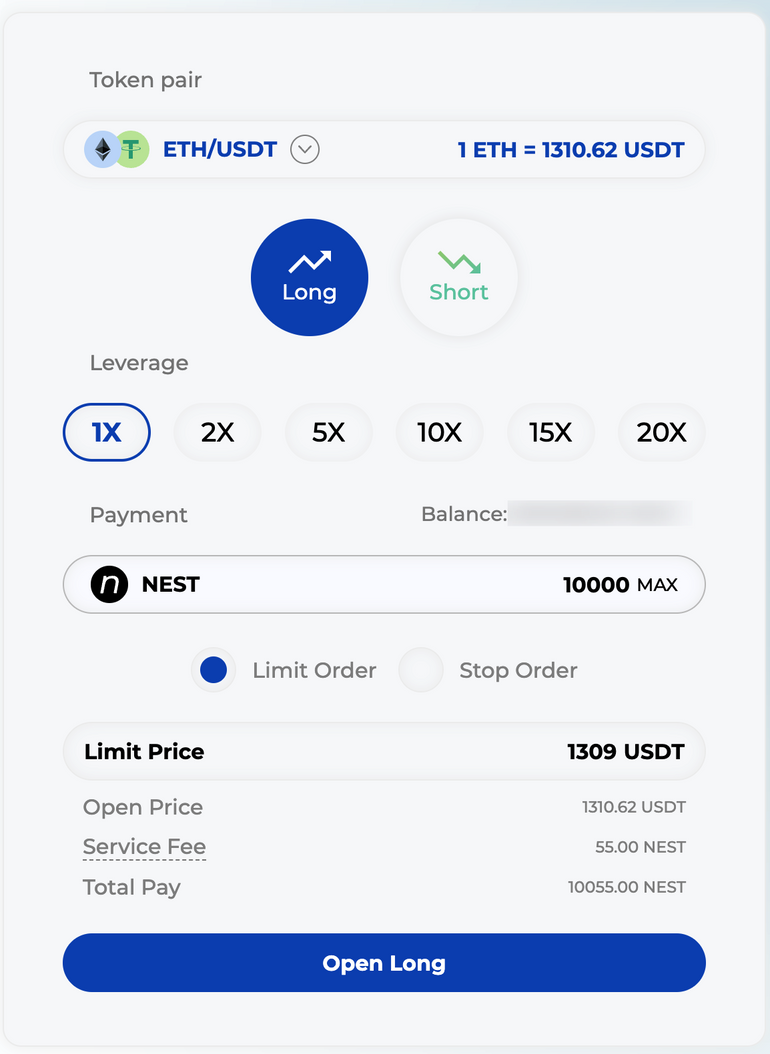
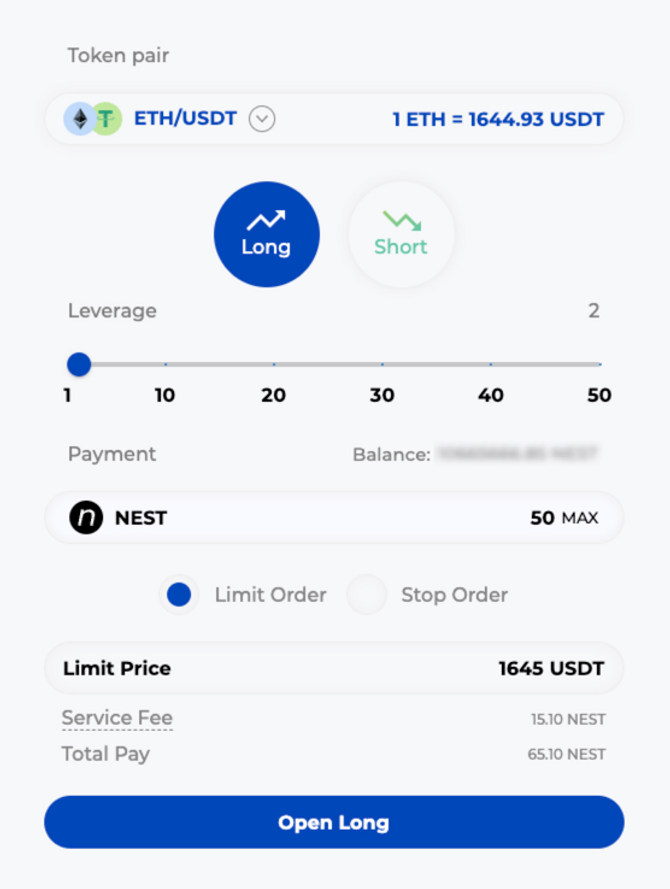
update

diff --git a/README.md b/README.md
@@ -2,13 +2,13 @@
 
 ## Concept
 
-### NEST Probability Virtual Machine
+### What is NEST Protocol?
 
-NEST Probability Virtual Machine (PVM) is a virtual machine-like structure based on the basic function library. Developers can develop various exciting applications based on the function library, similar to Ethereum virtual machine (EVM) programming.
+The NEST Protocol is a decentralized trading infrastructure known as the martingale network. NEST uses smart contracts to eliminate market markers and LPs while providing traders with nearly infinite liquidity through risk sharing.
 
-NEST inherited the genes of Ethereum. The essence of EVM is that each program is a combination of some basic codes, which can be called as long as a certain gas fee is paid. The income of each product on the PVM can be regarded as a linear combination of some basic income functions, and this income can be obtained as long as a certain cost (that is, the discounted value of this income) is paid. The underlying logic of PVM is the same as that of EVM, which means that all EVM development can be implemented on PVM.
+NEST Protocol includes three modules: NEST Oracle, NEST Assets, and NESTcraft. NEST Oracle provides decentralized on-chain prices. NEST Assets are generated and burned by NEST smart contract, and provide currency units for martingale transactions on NEST. NESTcraft converts various on-chain random sources into a super martingale function library and provides a variety of customizable martingale trading options.
 
-Check the PVM's [whitepaper](https://finance.nestprotocol.org/The_White_Paper_of_NEST_PVM.pdf) for more details.
+The NEST protocol can be used for a variety of purposes, including decentralized contract exchanges, financial derivatives supermarkets, on-chain and off-chain risk hedging, the economic framework of Metaverse and GameFi, lottery, prop synthesis, and a few others.
 
 ## How to Play
 
@@ -30,157 +30,138 @@ You can switch to "Swap" tab to exchange between USDT and NEST token. The exchan
 
 ### Futures
 
-You can use NEST to buy ETH/USDT and BTC/USDT futures here, up to 20x leverage.
-
-We offer you 1X, 2X, 5X, 10X, 15X 20X leverage. The following steps show you how to buy futures on NEST Fi.
+You can use $NEST to buy ETH/USDT and BTC/USDT futures here, with up to 50X leverage. We offer you 1-50 times leverage. The following steps show you how to buy futures on NEST Fi.
 
 #### Connect your wallet
 
-You can connect your wallet through the "Connect Wallet" button on the page:
+Connect your wallet through the "Connect Wallet" button on the page:
 ![image7](https://raw.githubusercontent.com/NEST-Protocol/NEST-Fi-User-Guide/main/Image/NFUG7.png)
 
 #### Token
 
 You need to have NEST tokens in your account to start trading.
 
-It can be exchanged directly on swap: [https://finance.nestprotocol.org/#/swap](https://finance.nestprotocol.org/#/swap)
+You can exchange directly through Swap: [https://finance.nestprotocol.org/#/swap](https://finance.nestprotocol.org/#/swap)
 
 #### Open a position
 
-Select the token you want to open a position, and check the current market price through NEST oracle, which is a completely decentralized oracle. The opening price will be slightly different from the price provided by the NEST oracle price based on risk compensation.
+Select the token pair you want to open a position and check the current market price through NEST Oracle, an utterly decentralized oracle. The opening price will be slightly different from the price provided by NEST Oracle based on risk compensation. Steps are as follows:
 
-1. Choose "Long" or "Short", and the leverage you want to use.
-2. Then, select the times of leverage
-3. Input the amount of NEST as collateral for this future, minimum 50 NEST.
+1. Choose "Long" or "Short" according to your expectation on which side you want to build your position.
+2. Then, select the times of leverage.
+3. Enter the amount to buy futures, and the minimum purchase is 50 $NEST.
 
 ![image8](https://raw.githubusercontent.com/NEST-Protocol/NEST-Fi-User-Guide/main/Image/NFUG8.png)
 
-4. The first time you need to approve it successfully before opening the position. NESTFi options use 0 slippage to open positions. And opening a position charges 0.2% of the position cost.
-
-While there is no price impact on the transaction, price movements between the time the transaction is submitted and its confirmation on the blockchain can cause slippage.
+4. You need to approve it successfully before opening the position for the first time.
+5. Service fee for opening positions: 0.1% of the position.
 
 #### Position management
 
-After successfully opening a position, the details of your position will be displayed at the bottom of the page. You can close your future positions at any time.
+After successfully opening a position, the information of your position will be displayed at the bottom. You can close your future positions at any time.
 
 ![image12](https://raw.githubusercontent.com/NEST-Protocol/NEST-Fi-User-Guide/main/Image/NFUG12.png)
 
-You can manage your liquidation price by clicking "Add" to add to the position. A service fee of 0.2% is charged based on the cost of your added position.
+You can manage your liquidation price by clicking "Add" to add margin. There is no service fee for margin calls.
 
 ![image13](https://raw.githubusercontent.com/NEST-Protocol/NEST-Fi-User-Guide/main/Image/NFUG13.png)
 
 #### Close a position
 
-You can close all your positions by clicking “Close” button. Once you choose to close, we will charge a 0.2% service fee from you.
+1. You can close all your positions by clicking the “Close” button.
+2. Service fee for closing: 0.1% of the position.
 
 ![image14](https://raw.githubusercontent.com/NEST-Protocol/NEST-Fi-User-Guide/main/Image/NFUG14.png)
 
 #### Limit order
 
-You can open the ‘limit order’ to set a specific opening price. This operation will charge a 0.2% service fee and a 15 NEST execution fee.
+You can click the ‘Limit order’ to set a specific opening price. Service fee for Limit order: 0.1% of the position+15 NEST(execution fee).
 
 1. Click “Limit order”.
-2. Then add your opening price to the corresponding “Limit Price”
+2. In the expanded menu, Limit Price, adds the price for opening a position.
 3. Once you create this order, we will charge you the principal, service fee, and execution fee in advance.
 4. You can manage your limit orders in the “Order” section.
-5. Once ‘Open Price’ reached the price you set, the protocol will automatically open the position for you.
+5. Once reaches the price you set, the protocol will automatically open the position for you.
 
 ![image15](https://raw.githubusercontent.com/NEST-Protocol/NEST-Fi-User-Guide/main/Image/NFUG15.png)
 
-Please note that the following situations may occur, which cause nonexecutable orders.
+Please note that the following situations may occur, and the order will not be executed:
 
-- The order doesn’t reach the price
-- The specified price is reached but time is insufficient to execute the order
-- There is no executor
-
-Although there is no price impact on the transaction, price movements between the submission of the transaction and its confirmation on the blockchain may result in slippage. Execution at the trigger price is not guaranteed.
+- The order doesn’t reach the price.
+- The specified price is reached, but time is insufficient to execute the order.
+- There is no executor.
 
 #### Limit Order Management
 
-After you have completed your limit orders, you can manage your own limit orders in 'order'.
+After you have completed your limit orders, you can manage your own limit orders in 'Order'.
 
-1. The list is displayed in the ‘order’ and you can change your limit order at any time via "edit"
-2. You can change your opening price without being charged any fees for this process
-3. You can close a limit order before it has been executed by "close", after which we will refund all the fees you have paid at the time of opening the order.
+1. Click “Order” to check your limit order information.
+2. Click "Edit" to change the opening price and no service fee for this process.
+3. You can close a limit order before it has been executed by "Close", after which we will refund all the fees you have paid at the time of opening the position.
 
 ![image16](https://raw.githubusercontent.com/NEST-Protocol/NEST-Fi-User-Guide/main/Image/NFUG16.png)
 
 #### Stop Loss and Take Profit orders
 
-You can open and close a position at the set price by checking "Stop order" at the same time as placing a market order. A 0.2% service charge on the value of the position and a 15 NEST execution fee will be applied to the stop loss, which will be deducted directly from the margin when the position is closed at the execution price.
+You can select "Stop order" at the same time when placing an order in the market order, after successful opening a position, it will be automatically closed according to the price you set.
 
-1. Turn on "stop order"
-2. Add the price of the close position to the opened trigger
-3. Open the order and we will charge an additional execution fee
-4. You can manage your execution prices in the list of positions
-5. Once the 'Close price' was greater than the price you set, the protocol will automatically close the position
+Service fee for Stop Loss and Take Profit orders: 0.1% of the position+15 NEST(execution fee).
+
+This fee will be deducted directly from the margin when the order is closed.
+
+1. Click "Stop order".
+2.  In the expanded menu, “Take Profit” and “Stop Loss” adds the price for closing a position.
+
+Long:
+- Market price ≥ Take Profit  will trigger Take profit
+- Market price ≤ Stop Loss  will trigger Stop profit
+
+Short:  
+- Market price ≤  Take Profit  will trigger Take profit
+- Market price ≥ Stop Loss  will trigger Stop profit
+
+3. When your order is executed, we will charge an additional execution fee of 15NEST.
+4. You can manage your orders in the Positions list.
+5. You also click the “Trigger” in the Positions list to open Stop loss and Take profit.
 
 ![image17](https://raw.githubusercontent.com/NEST-Protocol/NEST-Fi-User-Guide/main/Image/NFUG17.png)
 
-Please note that the following situations may occur, which cause nonexecutable orders.
+Please note that the following situations may occur and the order will not be executed:
 
-- The order doesn’t reach the price
-- The specified price is reached but time is insufficient to execute the order
-- There is no executor
-
-Although there is no price impact on the transaction, price movements between the submission of the transaction and its confirmation on the blockchain may result in slippage. Execution at the trigger price is not guaranteed.
+- The order doesn’t reach the price.
+- The specified price is reached, but time is insufficient to execute the order.
+- There is no executor.
 
 #### Stop Loss and Take Profit order management
 
-You can manage your limit orders in 'positions' after you have completed them. If you have a market order, you can also add a stop-trigger execution price.
+You can manage your Stop loss and Take profit orders in 'Positions' after you have completed the orders.
 
-Modifying execution prices
-
-1. The list is displayed in positions and you can change your execution price at any time by using the "edit" button
+1. Click “Positions” to check your Stop Loss and Take Profit orders information.
 
 ![image18](https://raw.githubusercontent.com/NEST-Protocol/NEST-Fi-User-Guide/main/Image/NFUG18.png)
 
-2. Modify the execution price of the close positions, we do not charge any additional fees for this process
-3. The user can close a stop loss order
+2. Click "Edit" to change Stop Loss and Take Profit price, and no service fee for this process.
+3. Click "Close" to close the Stop Loss and Take Profit order.
 
 ![image19](https://raw.githubusercontent.com/NEST-Protocol/NEST-Fi-User-Guide/main/Image/NFUG19.png)
-
-4. When the stop profit and stop loss are not executed, the user actively closes the position, the service fee and execution fee for the stop profit and stop loss will not be refunded
-5. When the stop profit and stop loss are automatically executed, the system will directly deduct the service fee and execution fee from your margin.
+4. When the Stop Loss and Take Profit order is not automatically executed, if the user actively closes the order, the execution fee will not be deducted.
+5. When the Stop Loss and Take Profit order is automatically executed, the system will directly deduct the service fee and execution fee from your deposit.
 
 #### Create execution price
 
-1. After the market order is opened, you can create your own execution price through the "trigger" at any time
-2. We do not charge fees when creating an execution price. When the execution price is greater than the execution price, the service fee and execution fee will be deducted from your margin.
+Create Stop Loss and Take Profit order after opening a position： If you have a market order, you can click “Edit” to add the price.
+
+1. After the market order is opened, you can create the Stop Loss and Take Profit order by clicking the "Trigger".
 
 ![image20](https://raw.githubusercontent.com/NEST-Protocol/NEST-Fi-User-Guide/main/Image/NFUG20.png)
 
-#### Cost
+2. No fee will be charged when editing the market order to Stop Loss and Take Profit order. When the Stop Loss and Take Profit orders are automatically executed, the service fee and execution fee will be deducted from your margin.
 
-- 0.2% of the position size for opening/closing
-- When opening a position with a limit order, besides 0.2% position fee, additional 15 NEST will be charged for the limit order execution.
-- When closing a position with a stop order, besides 0.2% position fee, additional 15 NEST will be charged for the stop loss/take profit order execution.
+#### Futures service fee
 
-
-### Options
-
-NEST Fi's options are based on NEST Probability Virtual Machine (PVM), which provides options with infinite liquidity. NEST Fi support ETH/USDT and BTC/USDT options.
-
-The following steps show you how to buy options on NEST Fi:
-
-1. Similar to the future, option's market price of token pair is also from [NEST Oracle](https://www.nestprotocol.org/).
-2. Choose "Call" or "Put" option you want to buy.
-3. Choose the exercise time and strike price of the option. You should know, NEST Fi's options are [European Option](https://www.investopedia.com/terms/e/europeanoption.asp#:~:text=A%20European%20option%20is%20a,of%20or%20sell%20the%20shares.).
-
-- Exercise Time: You cannot strike your option until this date, but you can sell this option to NEST Fi network before the exercise time.
-- Strike Price: The final payoff depends on the strike price.
-
-4. Then, input the amount of NEST as your payment and the option shares will show on the right.
-
-![image9](https://raw.githubusercontent.com/NEST-Protocol/NEST-Fi-User-Guide/main/Image/NFUG9.png)
-
-5. Approve and buy the option.
-
-![image10](https://raw.githubusercontent.com/NEST-Protocol/NEST-Fi-User-Guide/main/Image/NFUG10.png)
-
-After you buy the option successfully, the detail of your position will shows at the bottom of the page. You can sell your option before exercise time.
-
-![image11](https://raw.githubusercontent.com/NEST-Protocol/NEST-Fi-User-Guide/main/Image/NFUG11.png)
+- 0.1% of the position size for opening/closing
+- 0.1% of the position size of the limit order + 15 NEST execution fee.
+- 0.1% of the position size of Stop Loss and Take Profit order + 15 NEST execution fee.
 
 ### Video Guide
 
